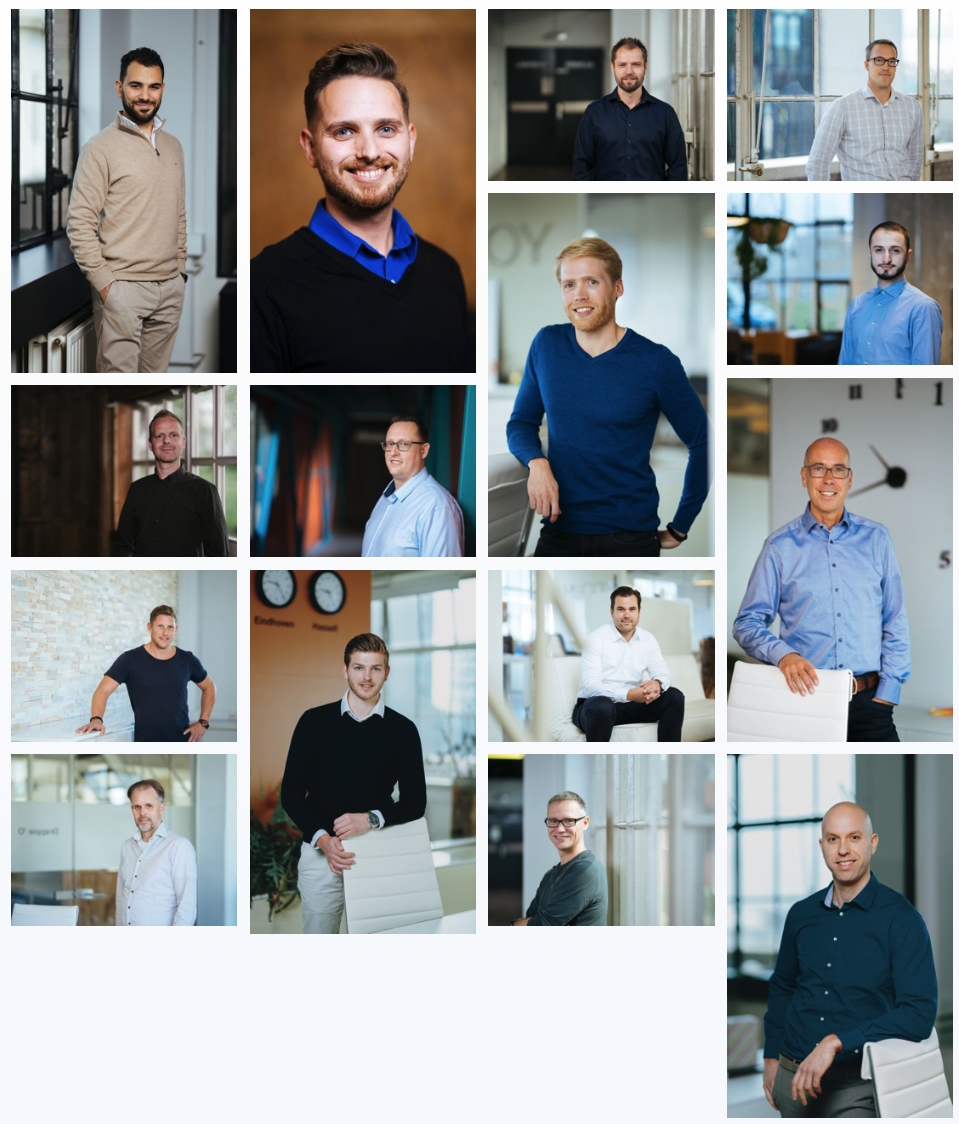
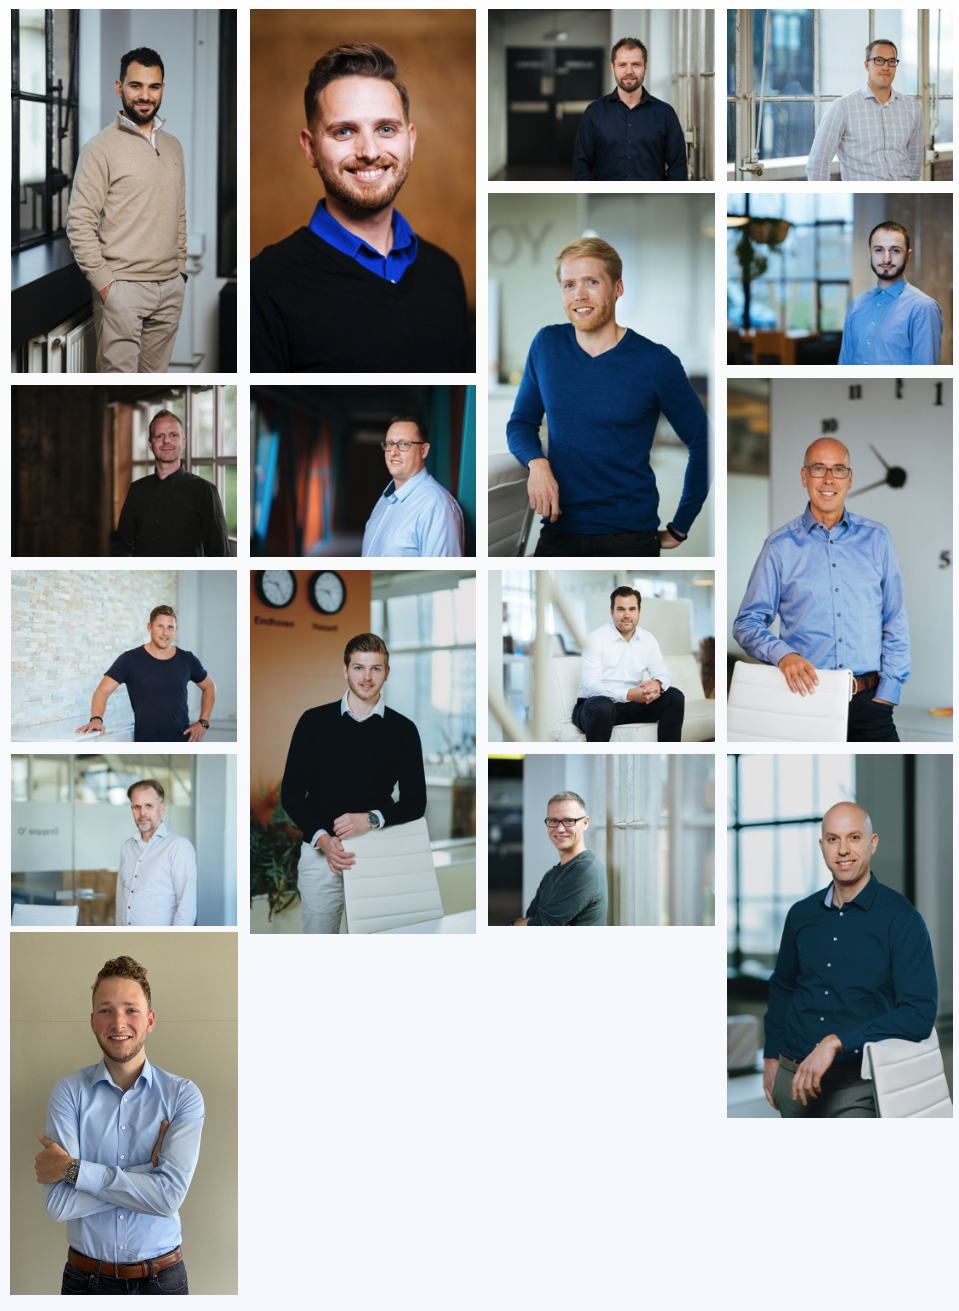
Fixed advice logic + added other team picture.

diff --git a/pages/quizScript.js b/pages/quizScript.js
@@ -133,41 +133,11 @@
 
         });
 
-        // show number of correct answers out of total
 
 
 
-        // A2 - FC 5 tm 8
-        if (fcpuntentelling > 4) {
-            document.getElementById("Advice").innerText = "SAP Logistics Business Network – Freight Collaboration past het beste bij uw situatie. De reden hiervoor is omdat u hierdoor gebruik kunt maken van een geautomatiseerde contractafhandeling. De kunst is het naadloos te laten aansluiten op uw huidige IT-landschap. Benieuwd wat daarbij komt kijken? Bel Bart de Bijl voor een brainstorm.";
-            document.getElementById("TitleAdvice").innerText = `${fcpuntentelling} voor FC, ${gttpuntentelling} voor GT, ${mttpuntentelling} voor MTT`;
+        // Adviezen met twee condities --------------------------------------------------------------------------------------------
 
-        }
-
-        // A1 - FC 9 
-        if (fcpuntentelling == 9) {
-            document.getElementById("Advice").innerText = "SAP Logistics Business Network – Freight Collaboration is voor u een slimme optie. Waarom? Het sluit perfect aan op uw wensen voor contractafhandeling. Benieuwd hoe u het naar uw hand zet voor uw situatie? Bel Bart de Bijl voor een brainstorm.";
-            document.getElementById("TitleAdvice").innerText = `${fcpuntentelling} voor FC, ${gttpuntentelling} voor GT, ${mttpuntentelling} voor MTT`;
-
-        }
-
-        // B2 - GT 8 tm 11
-        if (gttpuntentelling > 7) {
-            document.getElementById("Advice").innerText = "SAP Logistics Business Network – Global Track & Trace sluit het beste aan bij uw situatie. Waarom? Omdat u hierdoor totale vrijheid heeft om uw eigen scope te bepalen voor Tracken & Tracen van goederen. Benieuwd wat erbij komt kijken om die oplossing vorm te geven binnen uw bedrijf? Bel Bart de Bijl voor een brainstorm.";
-            document.getElementById("TitleAdvice").innerText = `${fcpuntentelling} voor FC, ${gttpuntentelling} voor GT, ${mttpuntentelling} voor MTT`;
-        }
-
-        // B1 - GT 12
-        if (gttpuntentelling == 12) {
-            document.getElementById("Advice").innerText = "SAP Logistics Business Network – Global Track & Trace is een slimme oplossing in uw situatie. U heeft daarmee de vrijheid uw eigen scope te bepalen voor Tracken & Tracen van goederen. De kunst is het naadloos te laten aansluiten op uw IT-landschap. Benieuwd hoe u dit aanpakt? Bel Bart de Bijl voor een brainstorm.";
-            document.getElementById("TitleAdvice").innerText = `${fcpuntentelling} voor FC, ${gttpuntentelling} voor GT, ${mttpuntentelling} voor MTT`;
-        }
-
-        // C2 - MT 5 tm 8
-        if (mttpuntentelling > 4) {
-            document.getElementById("Advice").innerText = "SAP Logistics Business Network – Material Traceability is de oplossing voor u. De kunst is dit binnen uw bedrijf verder vorm te geven. Benieuwd hoe u dit aanpakt? Bel Bart de Bijl voor een brainstorm.";
-            document.getElementById("TitleAdvice").innerText = `${fcpuntentelling} voor FC, ${gttpuntentelling} voor GT, ${mttpuntentelling} voor MTT`;
-        }
 
         // D2 - FC 5 tm 8 gtt 7 tm 11
         if (fcpuntentelling > 4 && gttpuntentelling > 6) {
@@ -176,81 +146,18 @@
 
         }
 
-        // D1 - FC 9 gtt 12
-        if (fcpuntentelling > 8 && gttpuntentelling > 11) {
-            document.getElementById("Advice").innerText = "Een combinatie van SAP Logistics Business Network – Freight Collaboration + Global Track & Trace is voor u de slimste optie. U wilt zelf tracking scenario’s opstellen. Door dit te combineren met de geautomatiseerde contracten en facturatie blijft u de concurrenten voor. Benieuwd hoe u deze combinatie inricht binnen uw bedrijf? Bel Bart de Bijl voor een brainstorm.";
-            document.getElementById("TitleAdvice").innerText = `${fcpuntentelling} voor FC, ${gttpuntentelling} voor GT, ${mttpuntentelling} voor MTT`;
-
-        }
-
-        // D3 - FC 9 GTT 7 tm 11
-        if (fcpuntentelling > 8 && gttpuntentelling > 6) {
-            document.getElementById("Advice").innerText = "SAP Logistics Business Network - Freight collaboration is voor u een slimme optie. Ons advies: combineer het met SAP Logistics Business Network – Global Track & Trace. Deze oplossing past namelijk ook bij uw wensen om de contracten en facturatie middels SAP Logistics Business Network te regelen. Omdat dit ook aansluit op uw wensen. Benieuwd hoe u deze (gecombineerde) oplossing inricht binnen uw bedrijf? Bel Bart de Bijl voor een brainstorm.";
-            document.getElementById("TitleAdvice").innerText = `${fcpuntentelling} voor FC, ${gttpuntentelling} voor GT, ${mttpuntentelling} voor MTT`;
-
-        }
-
         // D4 - FC 5 tm 8 GTT 12
-        if (fcpuntentelling > 6 && gttpuntentelling > 11) {
+        if (fcpuntentelling > 6 && gttpuntentelling == 12) {
             document.getElementById("Advice").innerText = "SAP Logistics Business Network – Global Track & Trace is voor u een slimme optie. Ons advies: combineer het met SAP Logistics Business Network – Freight Collaboration. U maakt dan uw goederenstroom inzichtelijk én heeft de volledige vrijheid en flexibiliteit om zelf tracking scenario’s te maken. Benieuwd hoe u deze (gecombineerde) oplossing inricht binnen uw bedrijf? Bel Bart de Bijl voor een brainstorm.";
             document.getElementById("TitleAdvice").innerText = `${fcpuntentelling} voor FC, ${gttpuntentelling} voor GT, ${mttpuntentelling} voor MTT`;
 
         }
 
-        // E2 - FC 5 tm 8 gtt 7 tm 11 mtt 5 tm 8
-        if (fcpuntentelling > 4 && gttpuntentelling > 6 && mttpuntentelling > 4) {
-            document.getElementById("Advice").innerText = "SAP Logistics Business Network sluit als totaaloplossing het beste aan bij uw wensen. Zo kunt u onder andere zelf uw tracking scenario’s opstellen en inzichtelijk krijgen waar uw grondstoffen vandaan komen. Benieuwd welke voordelen het heeft voor de processen binnen uw bedrijf? Bel Bart de Bijl voor een brainstorm.";
+        // D3 - FC 9 GTT 7 tm 11
+        if (fcpuntentelling == 9 && gttpuntentelling > 6) {
+            document.getElementById("Advice").innerText = "SAP Logistics Business Network - Freight collaboration is voor u een slimme optie. Ons advies: combineer het met SAP Logistics Business Network – Global Track & Trace. Deze oplossing past namelijk ook bij uw wensen om de contracten en facturatie middels SAP Logistics Business Network te regelen. Omdat dit ook aansluit op uw wensen. Benieuwd hoe u deze (gecombineerde) oplossing inricht binnen uw bedrijf? Bel Bart de Bijl voor een brainstorm.";
             document.getElementById("TitleAdvice").innerText = `${fcpuntentelling} voor FC, ${gttpuntentelling} voor GT, ${mttpuntentelling} voor MTT`;
 
-        }
-
-        // F1 Geen SAP LBN FC 4 of minder punten GTT 6 of minder punten en MT 4 of minder punten/ fallback 
-        if (fcpuntentelling < 5 && gttpuntentelling < 7 && mttpuntentelling < 5) {
-            document.getElementById("Advice").innerText = "Bedankt voor het invullen van de matrix. Op basis van uw antwoorden is er niet één doorslaggevende oplossing die eruit springt. We spreken u graag persoonlijk om uw situatie samen scherp te stellen en een maatwerkadvies te geven. Neem contact op met Bart de Bijl voor een vrijblijvend adviesgesprek.";
-            document.getElementById("TitleAdvice").innerText = `${fcpuntentelling} voor FC, ${gttpuntentelling} voor GT, ${mttpuntentelling} voor MTT`;
-
-        }
-
-        // E1 Perfect score
-        if (fcpuntentelling > 8 && gttpuntentelling > 11 && mttpuntentelling > 8) {
-            document.getElementById("Advice").innerText = "SAP Logistics Business Network sluit als totaaloplossing perfect aan bij uw wensen. U krijgt daarmee alle mogelijkheden om uw hele Supply Chain inzichtelijk te maken. De kunst is het naadloos te laten aansluiten op uw huidige IT-landschap. Benieuwd wat daarbij komt kijken? Bel Bart de Bijl voor een brainstorm.";
-            document.getElementById("TitleAdvice").innerText = `${fcpuntentelling} voor FC, ${gttpuntentelling} voor GT, ${mttpuntentelling} voor MTT`;
-
-        }
-
-        //B1 – GTT 12 punten 
-        if (gttpuntentelling == 12) {
-            document.getElementById("Advice").innerText = "SAP Logistics Business Network – Global Track & Trace is een slimme oplossing in uw situatie. U heeft daarmee de vrijheid uw eigen scope te bepalen voor Tracken & Tracen van goederen. De kunst is het naadloos te laten aansluiten op uw IT-landschap. Benieuwd hoe u dit aanpakt? Bel Bart de Bijl voor een brainstorm.";
-            document.getElementById("TitleAdvice").innerText = `${fcpuntentelling} voor FC, ${gttpuntentelling} voor GT, ${mttpuntentelling} voor MTT`;
-
-        }
-
-
-        //C1 – MT 9 punten 
-        if (mttpuntentelling == 9) {
-            document.getElementById("Advice").innerText = "SAP Logistics Business Network - Material Traceability sluit naadloos aan op uw wensen. U toont met deze oplossing aan waar uw grondstoffen vandaan komen. Benieuwd wat erbij komt kijken om die oplossing vorm te geven binnen uw bedrijf? Bel Bart de Bijl voor een brainstorm.";
-            document.getElementById("TitleAdvice").innerText = `${fcpuntentelling} voor FC, ${gttpuntentelling} voor GT, ${mttpuntentelling} voor MTT`;
-
-        }
-
-        //C2 MT 5 t/m 8 punten 
-        if (mttpuntentelling > 4) {
-            document.getElementById("Advice").innerText = "SAP Logistics Business Network – Material Traceability is de oplossing voor u. De kunst is dit binnen uw bedrijf verder vorm te geven. Benieuwd hoe u dit aanpakt? Bel Bart de Bijl voor een brainstorm.";
-            document.getElementById("TitleAdvice").innerText = `${fcpuntentelling} voor FC, ${gttpuntentelling} voor GT, ${mttpuntentelling} voor MTT`;
-
-        }
-
-        //D1 – FC (9 punten) & GTT (12 punten) 
-        if (fcpuntentelling == 9 && gttpuntentelling == 12) {
-            document.getElementById("Advice").innerText = "Een combinatie van SAP Logistics Business Network – Freight Collaboration + Global Track & Trace is voor u de slimste optie. U wilt zelf tracking scenario’s opstellen. Door dit te combineren met de geautomatiseerde contracten en facturatie blijft u de concurrenten voor. Benieuwd hoe u deze combinatie inricht binnen uw bedrijf? Bel Bart de Bijl voor een brainstorm.";
-            document.getElementById("TitleAdvice").innerText = `${fcpuntentelling} voor FC, ${gttpuntentelling} voor GT, ${mttpuntentelling} voor MTT`;
-
-        }
-
-        // G1 – FC & MT (9 punten) 
-        if (fcpuntentelling == 9 && mttpuntentelling == 9) {
-            document.getElementById("Advice").innerText = "SAP Logistics Business Network - Freight Collaboration & Material Traceability is een slimme optie voor u. Dit sluit aan bij u wensen over de contracten en facturatie. Ook kunt u hierdoor zichtbaarheid creëren voor de consument. Benieuwd hoe u deeze combinatie inricht binnen uw bedrijf? Bel Bart de Bijl voor een brainstorm.";
-            document.getElementById("TitleAdvice").innerText = `${fcpuntentelling} voor FC, ${gttpuntentelling} voor GT, ${mttpuntentelling} voor MTT`;
         }
 
         // G2 FC & MT 5 t/m 8 punten 
@@ -258,6 +165,13 @@
             document.getElementById("Advice").innerText = "SAP Logistics Business Network – Freight Collaboration & Material Traceability bevelen wij u aan. Hiermee kun u zichtbaarheid creëren voor de eindgebruiker en op een handige manier de kosten afhandelen. Benieuwd hoe u deze (gecombineerde) oplossing inricht binnen uw bedrijf? Bel Bart de Bijl voor een brainstorm.";
             document.getElementById("TitleAdvice").innerText = `${fcpuntentelling} voor FC, ${gttpuntentelling} voor GT, ${mttpuntentelling} voor MTT`;
         }
+
+        // H4 MT 9 punten GTT 7 t/m 11 punten   
+        if (mttpuntentelling == 9 && gttpuntentelling > 6) {
+            document.getElementById("Advice").innerText = "SAP Logistics Business Network – Material Traceability is een zeer geschikte optie voor u. Dit kunt u dan gebruiken in combinatie met Global Track & Trace. Bij het gebruik van deze twee oplossingen kunt u uw producten volgen over de gehele goederenstroom. Benieuwd hoe u deze combinatie inricht binnen uw bedrijf? Bel Bart de Bijl voor een brainstorm.";
+            document.getElementById("TitleAdvice").innerText = `${fcpuntentelling} voor FC, ${gttpuntentelling} voor GT, ${mttpuntentelling} voor MTT`;
+        }
+
 
         // G3 FC 5 t/m 8 punten MT 9 punten
         if (fcpuntentelling > 4 && mttpuntentelling == 9) {
@@ -277,24 +191,99 @@
             document.getElementById("TitleAdvice").innerText = `${fcpuntentelling} voor FC, ${gttpuntentelling} voor GT, ${mttpuntentelling} voor MTT`;
         }
 
-        // H2 MT 5 t/m 8 punten GTT 7 t/m 11 punten 
-        if (mttpuntentelling == 9 && gttpuntentelling == 12) {
-            document.getElementById("Advice").innerText = "SAP Logistics Business Network – Material Traceability is een slimme optie voor u. Ons advies: combineer dit met SAP Logistics Business Network – Global Track & Trace. Middels deze twee oplossingen kunt u uw gehele goederenstroom inzichtelijk krijgen. Benieuwd hoe u deze (gecombineerde) oplossing inricht binnen uw bedrijf? Bel Bart de Bijl voor een brainstorm.";
-            document.getElementById("TitleAdvice").innerText = `${fcpuntentelling} voor FC, ${gttpuntentelling} voor GT, ${mttpuntentelling} voor MTT`;
-        }
-
         // H3 MT 5 t/m 8 punten GTT 12 punten  
         if (mttpuntentelling > 4 && gttpuntentelling == 12) {
             document.getElementById("Advice").innerText = "SAP Logistics Business Network – Global Track & Trace is een zeer geschikte optie voor u. Ons advies is om dit te gebruiken in combinatie met Material traceability. Bij het gebruik van deze twee oplossingen kunt u uw gehele goederenstroom inzichtelijk krijgen. Benieuwd hoe u deze combinatie inricht binnen uw bedrijf? Bel Bart de Bijl voor een brainstorm.";
             document.getElementById("TitleAdvice").innerText = `${fcpuntentelling} voor FC, ${gttpuntentelling} voor GT, ${mttpuntentelling} voor MTT`;
         }
 
-        // H4 MT 9 punten GTT 7 t/m 11 punten   
-        if (mttpuntentelling == 9 && gttpuntentelling > 6) {
-            document.getElementById("Advice").innerText = "SAP Logistics Business Network – Material Traceability is een zeer geschikte optie voor u. Dit kunt u dan gebruiken in combinatie met Global Track & Trace. Bij het gebruik van deze twee oplossingen kunt u uw producten volgen over de gehele goederenstroom. Benieuwd hoe u deze combinatie inricht binnen uw bedrijf? Bel Bart de Bijl voor een brainstorm.";
+        // H2 MT 5 t/m 8 punten GTT 7 t/m 11 punten -> ERROR?
+        if (mttpuntentelling > 4 && gttpuntentelling > 6) {
+            document.getElementById("Advice").innerText = "SAP Logistics Business Network – Material Traceability is een slimme optie voor u. Ons advies: combineer dit met SAP Logistics Business Network – Global Track & Trace. Middels deze twee oplossingen kunt u uw gehele goederenstroom inzichtelijk krijgen. Benieuwd hoe u deze (gecombineerde) oplossing inricht binnen uw bedrijf? Bel Bart de Bijl voor een brainstorm.";
             document.getElementById("TitleAdvice").innerText = `${fcpuntentelling} voor FC, ${gttpuntentelling} voor GT, ${mttpuntentelling} voor MTT`;
         }
 
+        // G1 – FC & MT (9 punten) 
+        if (fcpuntentelling == 9 && mttpuntentelling == 9) {
+            document.getElementById("Advice").innerText = "SAP Logistics Business Network - Freight Collaboration & Material Traceability is een slimme optie voor u. Dit sluit aan bij u wensen over de contracten en facturatie. Ook kunt u hierdoor zichtbaarheid creëren voor de consument. Benieuwd hoe u deeze combinatie inricht binnen uw bedrijf? Bel Bart de Bijl voor een brainstorm.";
+            document.getElementById("TitleAdvice").innerText = `${fcpuntentelling} voor FC, ${gttpuntentelling} voor GT, ${mttpuntentelling} voor MTT`;
+        }
+
+        //D1 – FC (9 punten) & GTT (12 punten) 
+        if (fcpuntentelling == 9 && gttpuntentelling == 12) {
+            document.getElementById("Advice").innerText = "Een combinatie van SAP Logistics Business Network – Freight Collaboration + Global Track & Trace is voor u de slimste optie. U wilt zelf tracking scenario’s opstellen. Door dit te combineren met de geautomatiseerde contracten en facturatie blijft u de concurrenten voor. Benieuwd hoe u deze combinatie inricht binnen uw bedrijf? Bel Bart de Bijl voor een brainstorm.";
+            document.getElementById("TitleAdvice").innerText = `${fcpuntentelling} voor FC, ${gttpuntentelling} voor GT, ${mttpuntentelling} voor MTT`;
+
+        }
+
+        // Adviezen met drie condities --------------------------------------------------------------------------------------------
+
+
+        // F1 Geen SAP LBN FC 4 of minder punten GTT 6 of minder punten en MT 4 of minder punten/ fallback 
+        if (fcpuntentelling < 5 && gttpuntentelling < 7 && mttpuntentelling < 5) {
+            document.getElementById("Advice").innerText = "Bedankt voor het invullen van de matrix. Op basis van uw antwoorden is er niet één doorslaggevende oplossing die eruit springt. We spreken u graag persoonlijk om uw situatie samen scherp te stellen en een maatwerkadvies te geven. Neem contact op met Bart de Bijl voor een vrijblijvend adviesgesprek.";
+            document.getElementById("TitleAdvice").innerText = `${fcpuntentelling} voor FC, ${gttpuntentelling} voor GT, ${mttpuntentelling} voor MTT`;
+
+        }
+
+        // E2 - FC 5 tm 8 gtt 7 tm 11 mtt 5 tm 8
+        if (fcpuntentelling > 4 && gttpuntentelling > 6 && mttpuntentelling > 4) {
+            document.getElementById("Advice").innerText = "SAP Logistics Business Network sluit als totaaloplossing het beste aan bij uw wensen. Zo kunt u onder andere zelf uw tracking scenario’s opstellen en inzichtelijk krijgen waar uw grondstoffen vandaan komen. Benieuwd welke voordelen het heeft voor de processen binnen uw bedrijf? Bel Bart de Bijl voor een brainstorm.";
+            document.getElementById("TitleAdvice").innerText = `${fcpuntentelling} voor FC, ${gttpuntentelling} voor GT, ${mttpuntentelling} voor MTT`;
+
+        }
+
+        // E1 Perfect score - check
+        if (fcpuntentelling == 9 && gttpuntentelling == 12 && mttpuntentelling == 9) {
+            document.getElementById("Advice").innerText = "SAP Logistics Business Network sluit als totaaloplossing perfect aan bij uw wensen. U krijgt daarmee alle mogelijkheden om uw hele Supply Chain inzichtelijk te maken. De kunst is het naadloos te laten aansluiten op uw huidige IT-landschap. Benieuwd wat daarbij komt kijken? Bel Bart de Bijl voor een brainstorm.";
+            document.getElementById("TitleAdvice").innerText = `${fcpuntentelling} voor FC, ${gttpuntentelling} voor GT, ${mttpuntentelling} voor MTT`;
+
+        }
+
+
+        // Adviezen met een conditie --------------------------------------------------------------------------------------------
+
+
+
+        // A2 - FC 5 tm 8
+        if (fcpuntentelling > 4 && gttpuntentelling == 0 && mttpuntentelling == 0) {
+            document.getElementById("Advice").innerText = "SAP Logistics Business Network – Freight Collaboration past het beste bij uw situatie. De reden hiervoor is omdat u hierdoor gebruik kunt maken van een geautomatiseerde contractafhandeling. De kunst is het naadloos te laten aansluiten op uw huidige IT-landschap. Benieuwd wat daarbij komt kijken? Bel Bart de Bijl voor een brainstorm.";
+            document.getElementById("TitleAdvice").innerText = `${fcpuntentelling} voor FC, ${gttpuntentelling} voor GT, ${mttpuntentelling} voor MTT`;
+
+        }
+
+        // A1 - FC 9 
+        if (fcpuntentelling == 9 && gttpuntentelling == 0 && mttpuntentelling == 0) {
+            document.getElementById("Advice").innerText = "SAP Logistics Business Network – Freight Collaboration is voor u een slimme optie. Waarom? Het sluit perfect aan op uw wensen voor contractafhandeling. Benieuwd hoe u het naar uw hand zet voor uw situatie? Bel Bart de Bijl voor een brainstorm.";
+            document.getElementById("TitleAdvice").innerText = `${fcpuntentelling} voor FC, ${gttpuntentelling} voor GT, ${mttpuntentelling} voor MTT`;
+
+        }
+
+        // B2 - GT 8 tm 11
+        if (gttpuntentelling > 7 && fcpuntentelling == 0 && mttpuntentelling == 0) {
+            document.getElementById("Advice").innerText = "SAP Logistics Business Network – Global Track & Trace sluit het beste aan bij uw situatie. Waarom? Omdat u hierdoor totale vrijheid heeft om uw eigen scope te bepalen voor Tracken & Tracen van goederen. Benieuwd wat erbij komt kijken om die oplossing vorm te geven binnen uw bedrijf? Bel Bart de Bijl voor een brainstorm.";
+            document.getElementById("TitleAdvice").innerText = `${fcpuntentelling} voor FC, ${gttpuntentelling} voor GT, ${mttpuntentelling} voor MTT`;
+        }
+
+        // B1 - GT 12
+        if (gttpuntentelling == 12 && fcpuntentelling == 0 && mttpuntentelling == 0) {
+            document.getElementById("Advice").innerText = "SAP Logistics Business Network – Global Track & Trace is een slimme oplossing in uw situatie. U heeft daarmee de vrijheid uw eigen scope te bepalen voor Tracken & Tracen van goederen. De kunst is het naadloos te laten aansluiten op uw IT-landschap. Benieuwd hoe u dit aanpakt? Bel Bart de Bijl voor een brainstorm.";
+            document.getElementById("TitleAdvice").innerText = `${fcpuntentelling} voor FC, ${gttpuntentelling} voor GT, ${mttpuntentelling} voor MTT`;
+        }
+
+        //C2 MT 5 t/m 8 punten 
+        if (mttpuntentelling > 4 && gttpuntentelling == 0 && fcpuntentelling == 0) {
+            document.getElementById("Advice").innerText = "SAP Logistics Business Network – Material Traceability is de oplossing voor u. De kunst is dit binnen uw bedrijf verder vorm te geven. Benieuwd hoe u dit aanpakt? Bel Bart de Bijl voor een brainstorm.";
+            document.getElementById("TitleAdvice").innerText = `${fcpuntentelling} voor FC, ${gttpuntentelling} voor GT, ${mttpuntentelling} voor MTT`;
+
+        }
+
+        //C1 – MT 9 punten 
+        if (mttpuntentelling == 9 && gttpuntentelling == 0 && fcpuntentelling == 0) {
+            document.getElementById("Advice").innerText = "SAP Logistics Business Network - Material Traceability sluit naadloos aan op uw wensen. U toont met deze oplossing aan waar uw grondstoffen vandaan komen. Benieuwd wat erbij komt kijken om die oplossing vorm te geven binnen uw bedrijf? Bel Bart de Bijl voor een brainstorm.";
+            document.getElementById("TitleAdvice").innerText = `${fcpuntentelling} voor FC, ${gttpuntentelling} voor GT, ${mttpuntentelling} voor MTT`;
+
+        }
 
 
 
@@ -489,7 +478,7 @@
             MTTPunten1: "z"
         },
         {
-            question: "4. Op welk niveau wilt u goederen in uw supply chain tracken??",
+            question: "4. Op welk niveau wilt u goederen in uw supply chain tracken?",
             answers: {
                 a: "GTT ",
                 b: "FCC",
